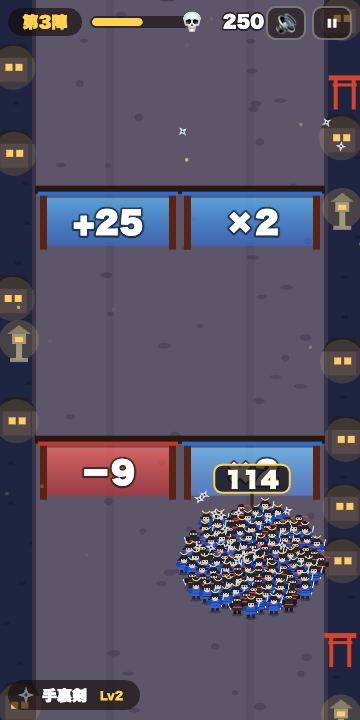
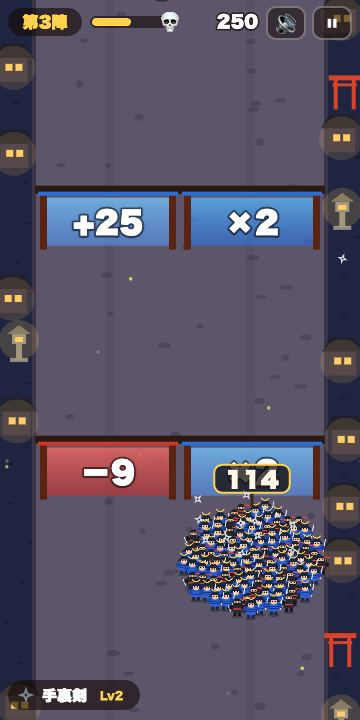
侍無双: 門をくぐって仲間が増える縦スクロール合戦ゲームの最初の版

diff --git a/game.js b/game.js
@@ -946,7 +946,7 @@ function drawHUD() {
   ctx.textBaseline = 'middle'; ctx.lineJoin = 'round';
   pill(8, y, 74, 28); ctx.font = '900 16px ' + JF; ctx.textAlign = 'center'; ctx.fillStyle = '#ffd34d'; ctx.fillText('第' + G.stage + '陣', 45, y + 14);
   // 進み具合
-  var px = 90, pw = 100, p = clamp(G.dist / G.bossAt, 0, 1);
+  var px = 90, pw = 78, p = clamp(G.dist / G.bossAt, 0, 1);
   pill(px, y + 8, pw, 12); ctx.fillStyle = '#ffd34d'; rrect(ctx, px + 2, y + 10, (pw - 4) * p, 8, 4); ctx.fill();
   if (BOSSES[(G.stage - 1) % BOSSES.length].e) emo(BOSSES[(G.stage - 1) % BOSSES.length].e, px + pw + 2, y + 14, 22);
   else ctx.drawImage(SPR.shogun[0], px + pw - 10, y + 2, 24, 24);

diff --git a/README.md b/README.md
@@ -4,6 +4,20 @@
 
 **遊ぶ: https://roguepink.github.io/musou/**
 
+## 遊び方
+
+- 指で左右に動かすだけ(PC は ← → キー、M で音、P で一時停止)。仲間は自動で撃つ
+- 青い門で仲間が増え、赤い門で減る。**門を撃つと数字が上がる**(赤を青に変えられる。かけ算の門は ×2 まで)
+- 木箱を壊すと 武器(弓矢→手裏剣→火縄銃→火矢→焙烙玉→雷刀)・援軍・攻撃力アップ
+- 最後に大将(赤鬼・大天狗・がしゃどくろ・大猪・大蛇・九尾の狐・土蜘蛛・怨霊・龍神・鬼将軍 をくり返す)。赤い丸はよける
+- 景色は 桜街道・竹林・夜の城下町・雪の峠・炎の合戦場 をくり返す。陣は終わりなし(だんだん強くなる)
+
+## ファイル
+
+- `index.html` 画面の枠(タイトル・突破・討死・ひと休み)/ `game.js` ゲーム本体(絵も音もここで作る。外のファイルなし)
+- 確認用: アドレスの末尾 `#auto`(おまかせ操作)/ `#auto4`(4倍速)/ `#auto-s5`(第5陣から)/ `#play`
+- むずかしさは `game.js` の `expN`(ふつうの人数)・`D`(陣ごとの強さ)・`spawnWave`/`spawnBoss` の数字で変える
+
 ## LINE で送る・ホーム画面に入れる
 
 - 上のアドレスを LINE に貼れば、タイトルと絵つきの紹介が出る。タップするとすぐ遊べる
